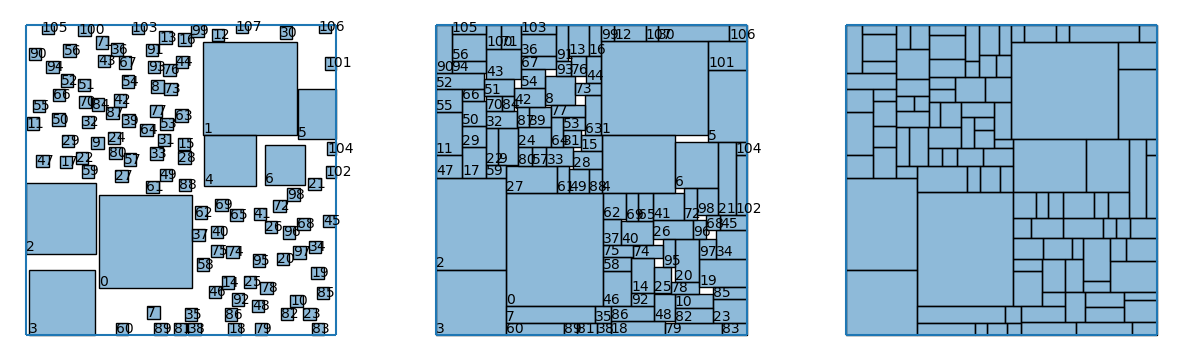
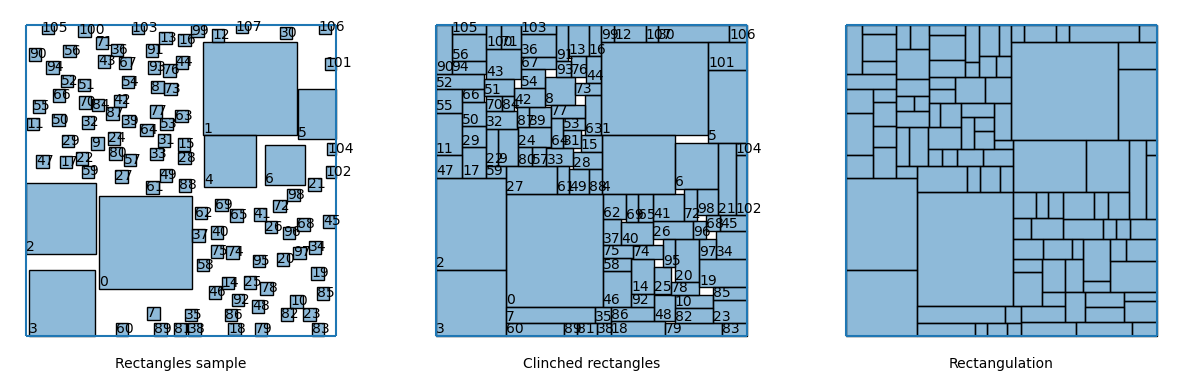
added titles

diff --git a/SquareDivision/src/rectangle_class.py b/SquareDivision/src/rectangle_class.py
@@ -169,16 +169,19 @@ class Rectangulation:
         i = 0
         if disjoint is True:
             axes[i] = draw_rectangles(axes[i], self.arr)
+            axes[i].set_xlabel('Rectangles sample')
             if disjoint_nums is True:
                 axes[i] = rectangle_numbers(axes[i], self.arr)
             i += 1
         if inflated is True:
             axes[i] = draw_rectangles(axes[i], self.clinched_rectangles)
+            axes[i].set_xlabel('Clinched rectangles')
             if inflated_nums is True:
                 axes[i] = rectangle_numbers(axes[i], self.clinched_rectangles)
             i += 1
         if closed is True:
             axes[i] = draw_rectangles(axes[i], self.closed)
+            axes[i].set_xlabel('Rectangulation')
             if closed_nums is True:
                 axes[i] = rectangle_numbers(axes[i], self.closed)
             i += 1
